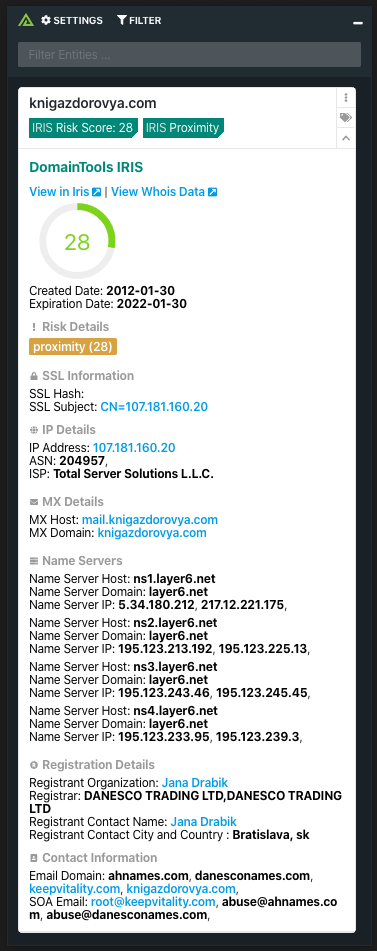
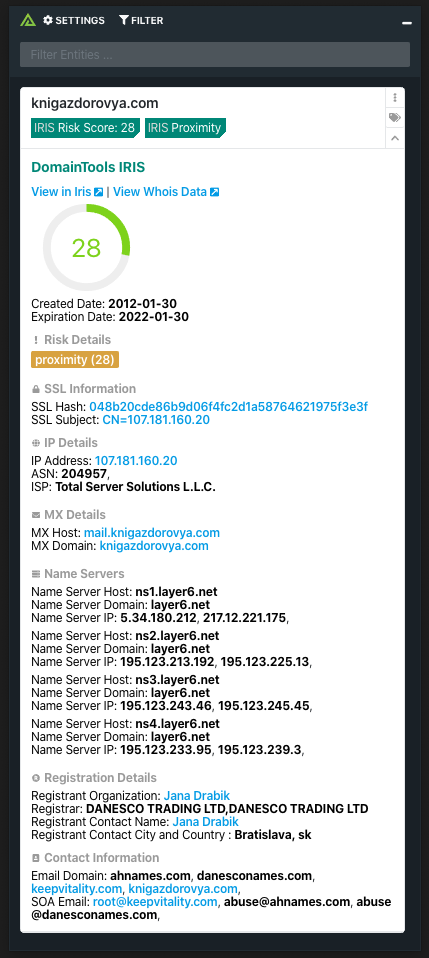
Fixed missing SSL field and updated screenshot and readme.

Changed region(s): [[0.0292, 0.0915, 0.9337, 1.0], [0.0584, 0.0, 0.4377, 0.0305], [0.8753, 0.0915, 0.9337, 0.1525]]

diff --git a/README.md b/README.md
@@ -7,7 +7,7 @@ The Polarity DomainTools Iris integration allows Polarity to search Iris for ris
 More information on Iris:
 https://www.domaintools.com/products/iris
 
-<img width="350" alt="Example Integration" src="./assets/integration-example.png">
+<img width="400" alt="Example Integration" src="./assets/integration-example.png">
 
 
 ## Iris Integration Options
